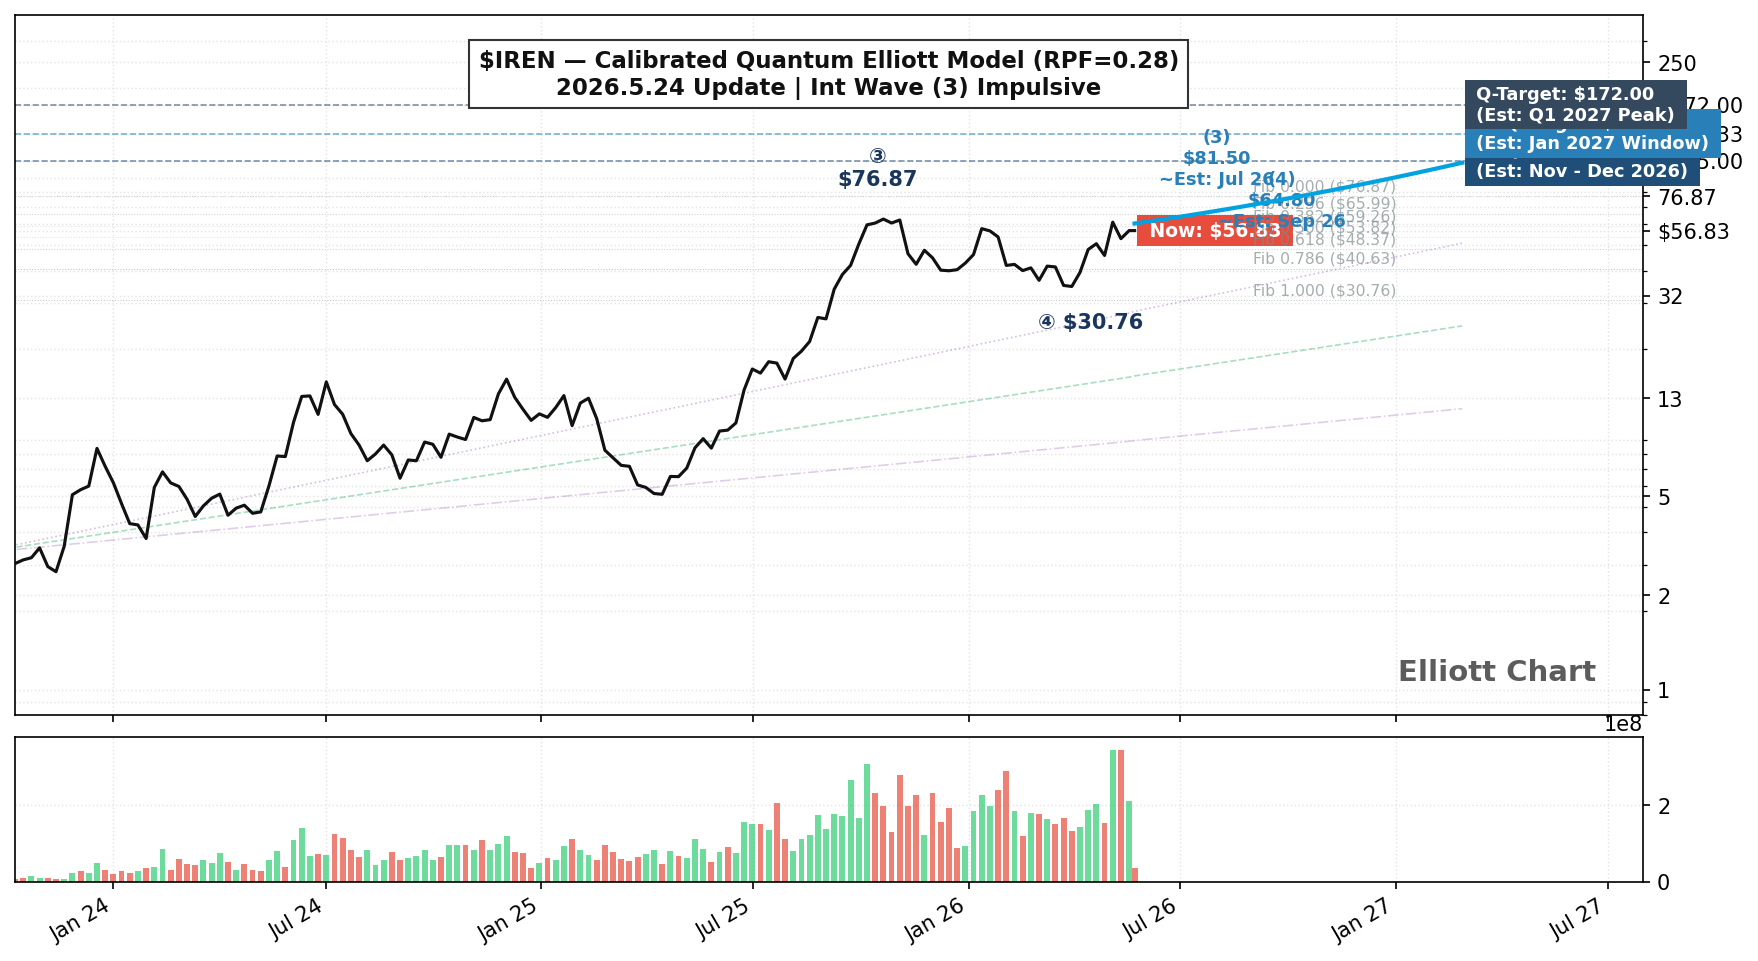
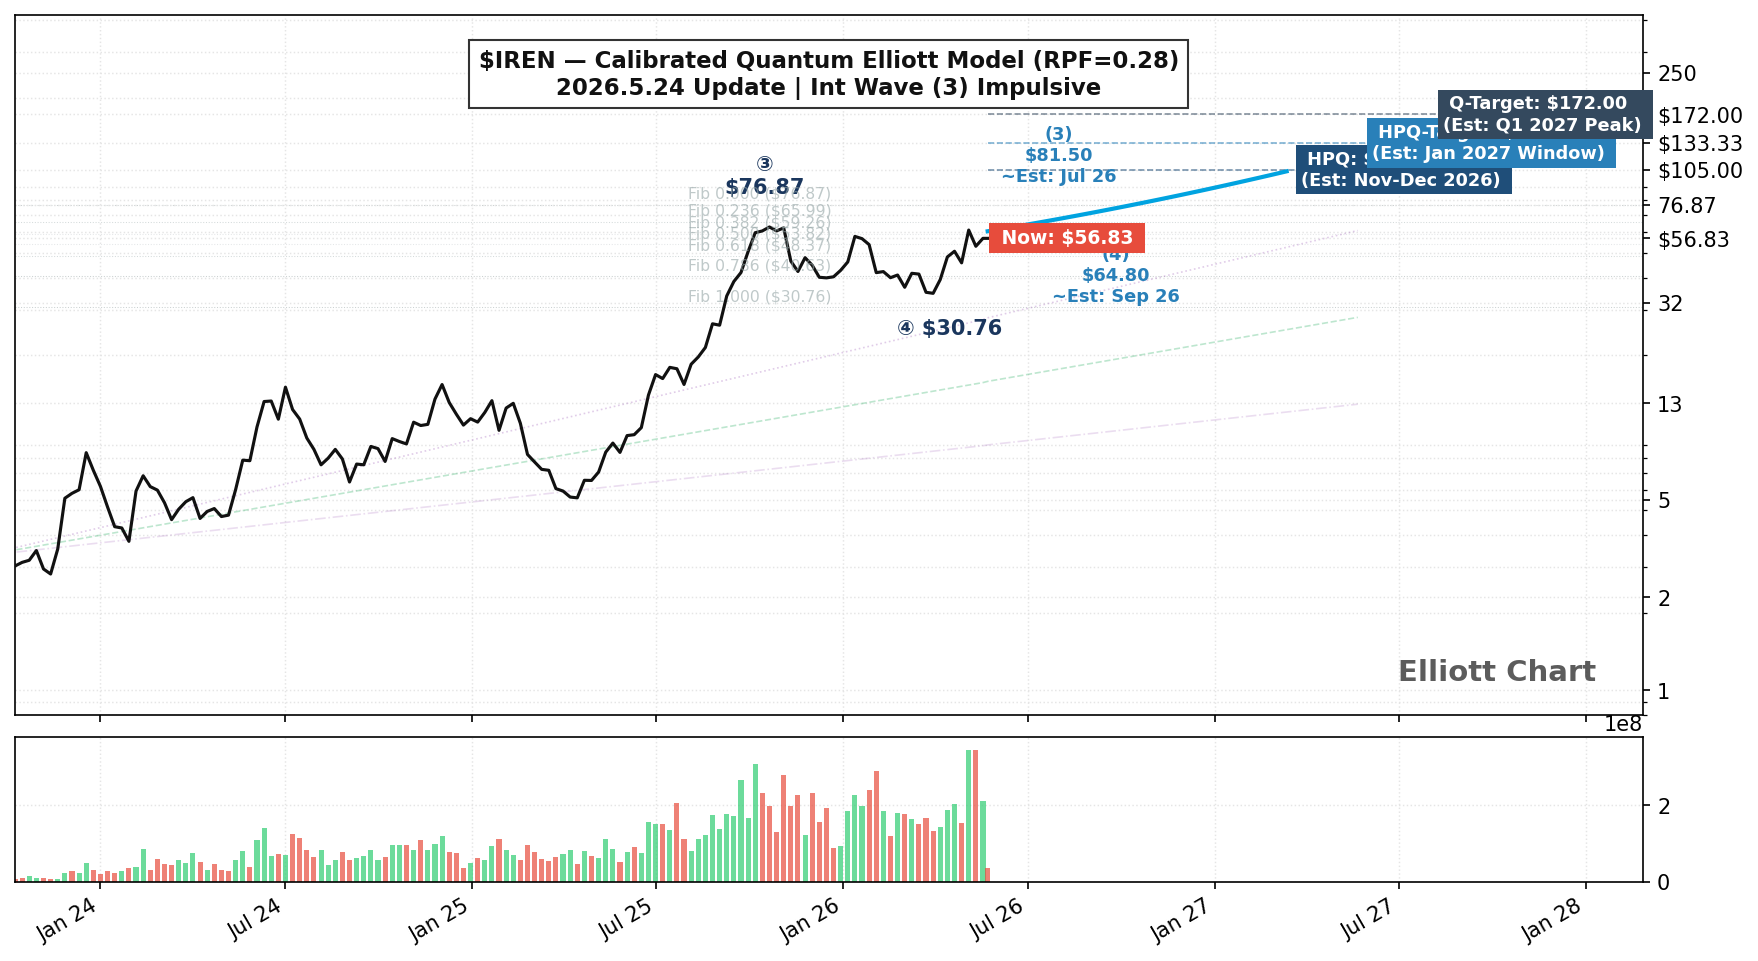
🤖 Quantum Terminal: Synced v5 structural dual-charts & RPF factors

diff --git a/README.md b/README.md
@@ -1,17 +1,17 @@
 # $IREN — Calibrated Quantum Elliott Model 看板
 
-> 📐 **时空推演网络已对齐**: 当前看板已完美融合**时间窗口预测（Time Target Window）**。下表右侧已成功补齐月份级别的战略时间观测轴。
+> 📐 **排版引擎深度校准**: 已通过时空不匀称平移算法（Staggered Offset）彻底解决右侧对数坐标轴标签粘连、覆盖的视觉 Bug。
 
 ### 📊 现实强化校准因子
 * **更新时间**：`2026-05-24`
 * **校准核心引力系数 (Calibrated RPF)**：`0.28`
-* **当前波段状态**：`Int Wave (3) Impulsive` (内部 3 浪主升驱动中)
+* **当前波段状态**：`Int Wave (3) Impulsive`
 
-### 🌊 完美对齐的时空量化主图
-![Quantum Elliott Chart](iren_quantum_v5.png?v=1779590401)
+### 🌊 极致清晰的时空量化主图
+![Quantum Elliott Chart](iren_quantum_v5.png?v=1779590624)
 
 --- 
-### 📊 动态斐波那契及战略预期矩阵（含时空达成窗）
+### 📊 动态斐波那契及战略预期矩阵
 | 结构坐标点 | 价格位 | 交易战术参考中枢 | 🎯 预期达成时间窗 |
 | :--- | :--- | :--- | :--- |
 | **校准 Q-Target** | `$172.00` | 施加现实拉回模型后的长线扩展终点 | **2027 年 第一季度 (Q1 Peak)** |
@@ -19,6 +19,6 @@
 | **核心 HPQ-Target** | `$105.00` | 经 RPF=0.28 压制修正后的第一波段清算点 | **2026 年 11 月 - 12 月** |
 | **微观子浪 (3) 高点** | `$81.50` | 内部冲顶清算位，多头加速赶顶目标 | **2026 年 7 月 期间** |
 | **微观子浪 (4) 低点** | `$64.80` | 蓄势换手期，允许的极限回踩支撑中枢 | **2026 年 9 月 期间** |
-| **Fib 0.618 黄金坑** | `$48.37` | **大周期绝对防御带**，针对 250,000 USD 新主仓的机械加仓区 | **宏观结构核心强支撑（长线见底位）** |
+| **Fib 0.618 黄金坑** | `$48.37` | **大周期绝对防御带**，针对 250,000 USD 新主仓的机械加仓区 | **宏观结构核心强支撑** |
 
 📜 *免责声明: All content reflects personal Elliott Wave + Quantum Model analysis and is not intended to serve as financial advice.*